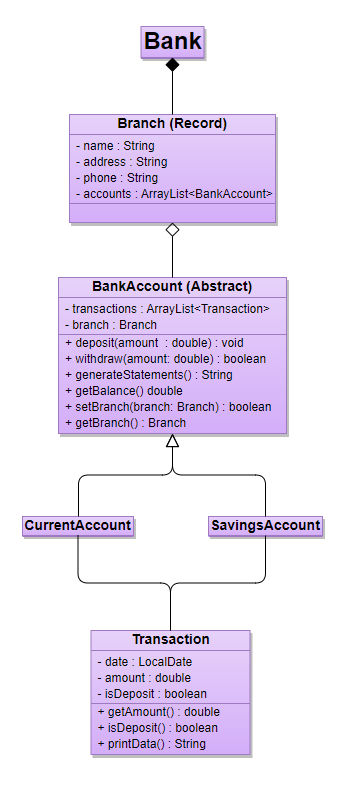
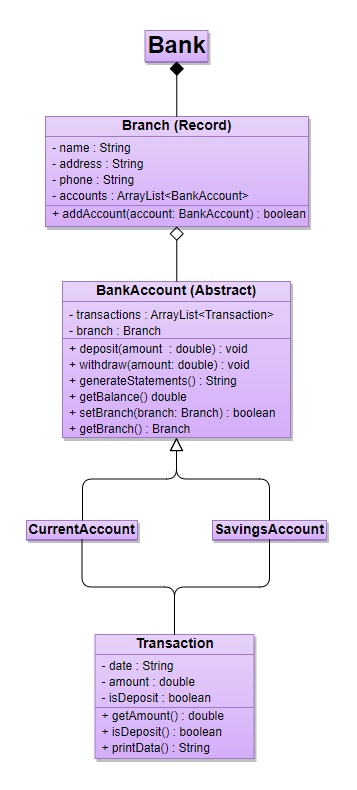
Domain Model + Class Diagram Update

Changed region(s): [[0.0575, 0.0305, 0.8908, 0.7319], [0.2586, 0.7929, 0.7471, 0.9759], [0.2299, 0.6099, 0.9483, 0.7624]]

diff --git a/DomainModel.md b/DomainModel.md
@@ -41,24 +41,24 @@ I want accounts to be associated with specific branches.
 
 ### Domain Model
 
-| Class                  | Method                   | Attributes                                    | Scenario                                          | Outcome                |
-|------------------------|--------------------------|-----------------------------------------------|---------------------------------------------------|------------------------|
-| Branch (Record)        | getters                  | String name, String Address                   |                                                   |                        |
-|                        |                          | String phone, ArrayList<BankAccount> accounts |                                                   |                        |
-| BankAccount (Abstract) | deposit()                | ArrayList<Transaction> transactions           | 4.Deposit money to account                        | void                   |
-|                        | withdraw()               |                                               | 4.Withdraw money from account:                    |                        |
-|                        |                          |                                               | - If the requested amount exists:                 | True, Make Transaction |
-|                        |                          |                                               | - Otherwise                                       | False                  |
-|                        | generateStatements()     |                                               | 3.Generate statements based on transactions' info | String                 |
-|                        | getBalance()             |                                               | 5.Generate balance based on transactions          | double                 |
-|                        | setBranch(Branch branch) | Branch branch                                 | 6.Set the account's branch                        |                        |
-|                        |                          |                                               | - If branch doesn't exist:                        | True, Branch set       |
-|                        |                          |                                               | - If branch exists:                               | False                  |
-|                        | getBranch()              |                                               | Get the account's branch                          | Branch/null            |
-| CurrentAccount         |                          |                                               | 1.Inherit from BankAccount                        |                        |
-| SavingsAccount         |                          |                                               | 2.Inherit from BankAccount                        |                        |
-| Transaction            | getAmount()              | double amount                                 | Get the amount of the transaction                 | double                 |
-|                        | isDeposit()              | boolean isDeposit                             | Differentiate deposits and withdrawals:           |                        |
-|                        |                          |                                               | - If deposit:                                     | True                   |
-|                        |                          |                                               | - If withdrawal:                                  | False                  |
-|                        | printData()              | LocalDate date                                | Generate transaction info (date + credit/debit)   | String                 |
+| Class                  | Method                          | Attributes                                | Scenario                                          | Outcome             |
+|------------------------|---------------------------------|-------------------------------------------|---------------------------------------------------|---------------------|
+| Branch (Record)        |                                 | String name, String Address, String phone |                                                   |                     |
+|                        | addAccount(BankAccount account) | ArrayList<BankAccount> accounts           | Add bank account to this branch                   |                     |
+|                        |                                 |                                           | - If account has no branch set:                   | true, Account added |
+|                        |                                 |                                           | - Otherwise:                                      | false               |
+| BankAccount (Abstract) | deposit()                       | ArrayList<Transaction> transactions       | 4.Deposit money to account                        | void                |
+|                        | withdraw()                      |                                           | 4.Withdraw money from account                     | void                |
+|                        | generateStatements()            |                                           | 3.Generate statements based on transactions' info | String              |
+|                        | getBalance()                    |                                           | 5.Generate balance based on transactions          | double              |
+|                        | setBranch(Branch branch)        | Branch branch                             | 6.Set the account's branch                        |                     |
+|                        |                                 |                                           | - If branch doesn't exist:                        | true, Branch set    |
+|                        |                                 |                                           | - If branch exists:                               | false               |
+|                        | getBranch()                     |                                           | Get the account's branch                          | Branch/null         |
+| CurrentAccount         |                                 |                                           | 1.Inherit from BankAccount                        |                     |
+| SavingsAccount         |                                 |                                           | 2.Inherit from BankAccount                        |                     |
+| Transaction            | getAmount()                     | double amount                             | Get the amount of the transaction                 | double              |
+|                        | isDeposit()                     | boolean isDeposit                         | Differentiate deposits and withdrawals:           |                     |
+|                        |                                 |                                           | - If deposit:                                     | true                |
+|                        |                                 |                                           | - If withdrawal:                                  | false               |
+|                        | printData()                     | String date                               | Generate transaction info (date + credit/debit)   | String              |
